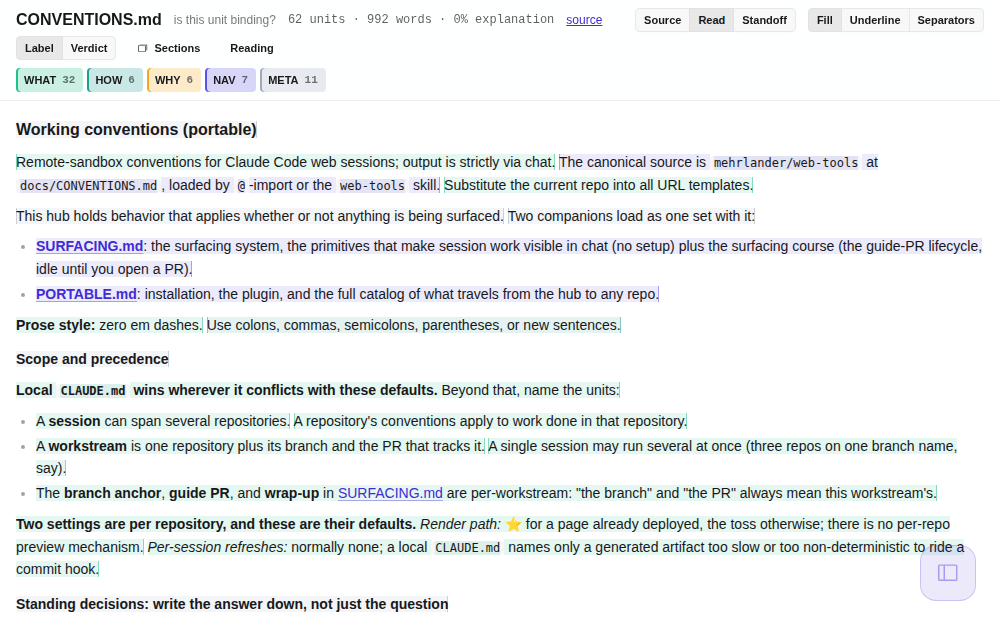
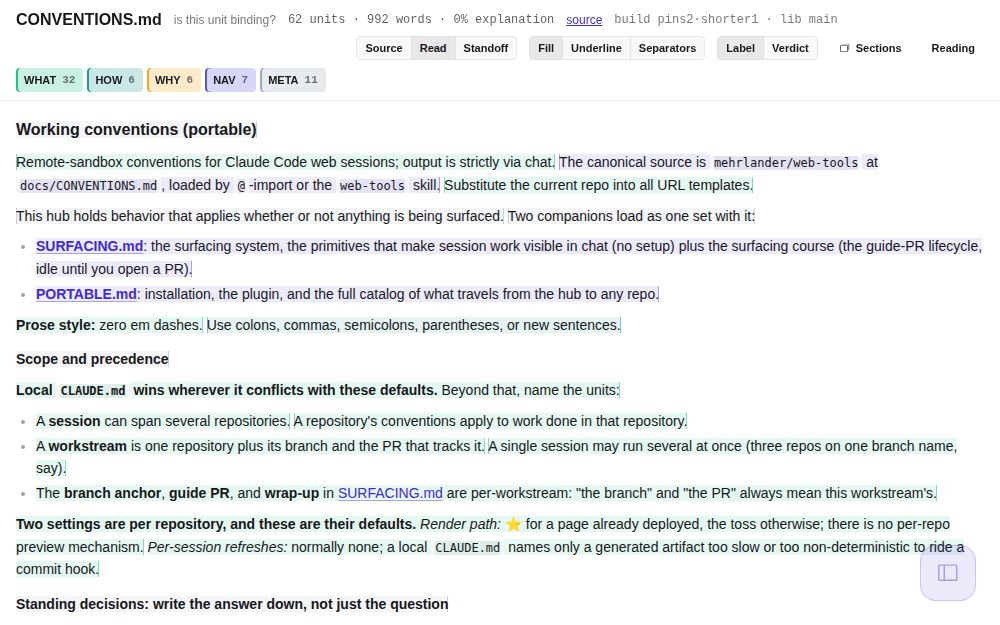
The page says which build it is
Two rounds of 'no change' were spent on a ?use= address, which swaps the lib
and never the page file, so a fix living in the page was absent with nothing on
screen to say so. The header now carries a build line.

Each token is a claim the live code makes about itself, read off the object at
render time (pins2 is the nearest-bar pin hit test, shorter1 the projection
handoff), so a token cannot appear unless the behaviour it names is present.
Beside it, the ref the lib came from, which is a different question and now
visibly a different field.

Claude-Session: https://claude.ai/code/session_01KzihRRDhvDjbgPHfbtrniE

diff --git a/pages/audit-render.html b/pages/audit-render.html
@@ -929,6 +929,24 @@ window.__audit = {
     get so() { return this.a.standoff; },
     get units() { return this.so.units; },
     get raw() { return JSON.stringify(this.so, null, 1); },
+    // WHICH PAGE IS ON SCREEN, said by the page rather than assumed from a link.
+    // Two rounds of "no change" were spent on a `?use=` address, which swaps the
+    // LIB at a ref and never the page file: Pages serves the page from the
+    // default branch, so a fix living in this file was absent with nothing on
+    // screen to say so (docs/SNAGS.md, use-swaps-the-lib-not-the-page).
+    //
+    // A stamp injected at build time would be the general answer and is not
+    // what this is. This is cheaper and cannot go stale: each token is a claim
+    // the live code makes about ITSELF, read off the object at render time, so
+    // a token can only appear when the behaviour it names is actually present.
+    // Add one whenever a change here is worth being able to see from a phone.
+    get build() {
+      const has = [
+        typeof this.pinUnder === 'function' && 'pins2',   // the nearest-bar pin hit test
+        typeof this.toShorter === 'function' && 'shorter1', // the projection handoff
+      ].filter(Boolean);
+      return `build ${has.join('·') || 'base'} · lib ${(this.ref || 'main').slice(0, 7)}`;
+    },
     get srcHref() { return 'data:application/json;charset=utf-8,' + encodeURIComponent(this.raw); },
 
     // ── HANDING THE PROJECTION ON ────────────────────────────────────────
@@ -1832,6 +1850,8 @@ window.__audit = {
               x-text="`${units.length} units · ${words.toLocaleString()} words · ` + (lens === 'verdict'
                         ? `${decided} decided` : `${pctOn('explanation')}% explanation`)"></span>
         <a class="text-xs link link-primary" :href="so.target.url" x-show="so.target.url">source</a>
+        <span class="text-xs font-mono opacity-60" x-text="build"
+              title="what this page file carries, and the ref its lib came from"></span>
         <div class="join ml-auto">
           <button class="join-item btn btn-xs" :class="view==='source' && 'btn-active'"
                   @click="view='source'; paint()">Source</button>
